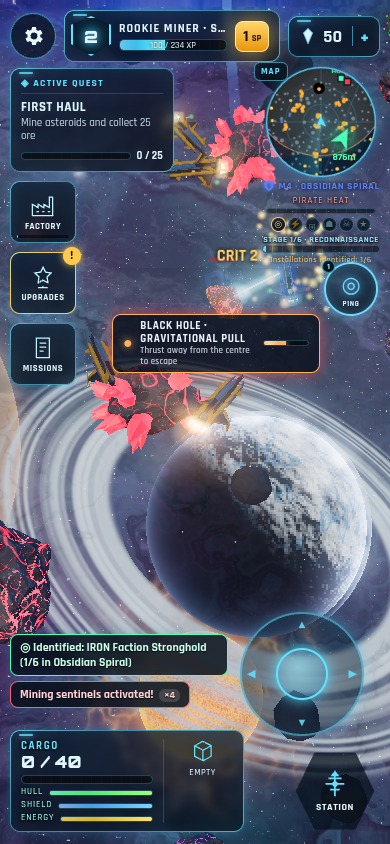
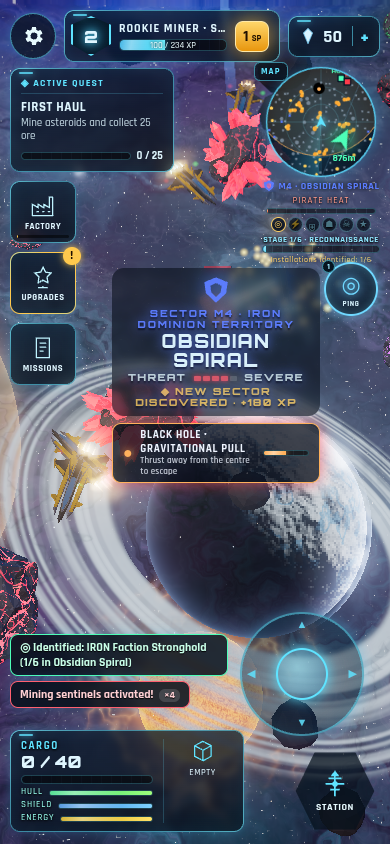
v16: environment batch 3 - celestial sky pack (tests green)

diff --git a/PROGRESS.md b/PROGRESS.md
@@ -219,4 +219,4 @@ Checklist:
 - [x] stars with corona / flares; black hole blue disc + spiral + jets
 - [x] concept-vs comparisons (shots/sky/concept-vs-{dark,gas,moon,star,bh,neb}.png, in-game close-ups via tests/v16shots.js)
 - [x] tests/v16env.js (all pass) + old suites green (smoke, smoke5, v8, v9, v13cam, registry, blender_ingame, blender_tex_registry, yardcheck, compat, v14env, v15env)
-- [ ] merge to main, cache-bust v16, push, verify live
+- [x] merge to main, cache-bust v16, push, verify live
